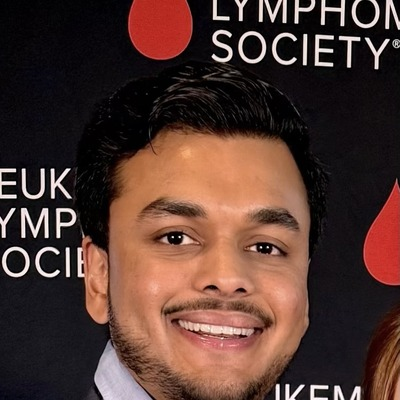
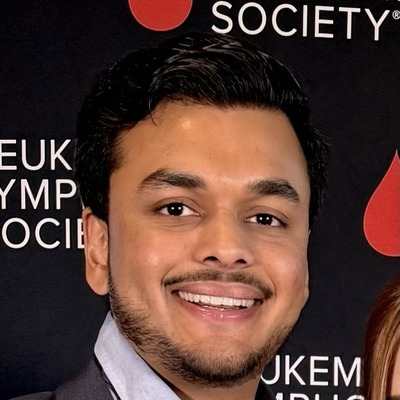
Adjust profile crop lower; update credential copy
- Photo: shift crop window down 65px — more chin, less hair at top
- Credentials: '8 yrs in data engineering' → '8+ yrs in engineering'
  covers data, software, and AI engineering without misrepresenting scope

diff --git a/app/page.tsx b/app/page.tsx
@@ -13,7 +13,7 @@ export const metadata: Metadata = {
 const CREDENTIALS = [
   { value: "1.2PB+", label: "processed daily" },
   { value: "250+", label: "person org" },
-  { value: "8 yrs", label: "in data engineering" },
+  { value: "8+ yrs", label: "in engineering" },
 ] as const;
 
 const PROJECTS = [
